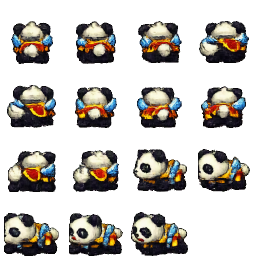
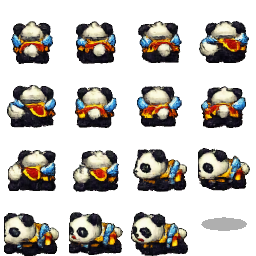
skin thu cuoi: them bong do va nhip nhun nhu linh thu that
Doc du lieu heo bang (d_effect/236) thay hai chi tiet ma skin dang thieu:

  frame 0: [dx=-8 dy=-5 img=0] [dx=-17 dy=-35 img=1]
  frame 1: [dx=-8 dy=-5 img=0] [dx=-17 dy=-34 img=2]
  frame 2: [dx=-8 dy=-5 img=0] [dx=-17 dy=-35 img=3]

1. Moi frame co HAI phan: mot bong do dat co dinh ngay toa do nhan vat, giu
   nguyen suot 21 frame, cong voi than con thu. Rong Bang cung vay (img0 27x14).
   Thieu bong thi con thu nhin nhu dan len chu khong dung tren dat.

2. Than nhun 1 diem so le tung frame (-35, -34, -35...). Do la toan bo "cach di
   chuyen" cua no.

Nay skin cung the: o thu 16 cua luoi la bong do (bau duc, rong 80% be ngang con
thu), moi frame gom bong + than. Nhip nhun thi do sau khi da thu nho — chenh
lech o anh goc phai nhan voi ti le ~0.33 moi ra so diem that nen 2 diem goc chi
con 0.66, chua thanh nhip; huong nao do ra 0 thi tu bu 1 diem so le.

Du lieu frame van giong nhau tung byte giua ca 5 skin:
  md5sum map/d_effect/159 197 198 199 212 -> 891102c844832322238fc11dc33f6cb1

Nhung lan nay du lieu CO doi (269 -> 421 byte, them phan bong) nen phai tat han
app mot lan nua. Sau lan nay bo cuc dong bang, doi hinh khong con doi du lieu.

Khong sua file nao trong src/ nen jar giu nguyen.

diff --git a/tools/TaoEffThuCuoi.java b/tools/TaoEffThuCuoi.java
@@ -71,9 +71,14 @@ public class TaoEffThuCuoi {
     private static final int SO_GOC = 5;
     /** Toa do anh con luu bang byte khong dau nen atlas toi da 256x256. */
     private static final int ATLAS = 256;
-    /** Canh mot o trong luoi co dinh, 4 cot x 4 dong = 256x256, du cho 15 anh. */
+    /**
+     * Canh mot o trong luoi co dinh, 4 cot x 4 dong = 256x256: 15 o cho than con thu,
+     * o thu 16 cho bong do.
+     */
     private static final int O = 64;
     private static final int SO_COT = ATLAS / O;
+    /** Chi so o chua bong do (o cuoi cung cua luoi). */
+    private static final int O_BONG = 15;
     /**
      * So diem con thu tho xuong duoi toa do nhan vat: xuong, len, ngang.
      *
@@ -144,6 +149,8 @@ public class TaoEffThuCuoi {
         final int[][][] khung = new int[3][SO_GOC][];
         final boolean[][][][] mat = new boolean[3][SO_GOC][][];
         final int[] mocY = new int[3];
+        /** true = hang khong co nhip nhun san, phai tu them. */
+        final boolean[] nhun = new boolean[3];
         int caoNhat = 0;
         for (int nhom = 0; nhom < 3; nhom++) {
             if (hang[nhom] >= hangs.size()) {
@@ -240,6 +247,22 @@ public class TaoEffThuCuoi {
         //
         // Gia phai tra: con thu bi gioi han trong 64x64, va client blit tron o nen phan
         // trong suot cung duoc ve — khong dang ke.
+        // Xem tung huong co nhip nhun san khong. PHAI do sau khi biet ti le: chenh lech
+        // do o anh goc con phai nhan voi ti le ~0.33 moi ra so diem that, nen 2 diem goc
+        // chi con 0.66 diem — chua thanh nhip.
+        for (int nhom = 0; nhom < 3; nhom++) {
+            int thap = Integer.MAX_VALUE, cao = -1;
+            for (int f = 0; f < SO_GOC; f++) {
+                if (khung[nhom][f] == null) continue;
+                final int v = (int) Math.round((mocY[nhom] - khung[nhom][f][3]) * tiLe);
+                thap = Math.min(thap, v);
+                cao = Math.max(cao, v);
+            }
+            nhun[nhom] = cao - thap < 1;
+            System.out.println("  huong " + nhom + (nhun[nhom] ? ": tu them nhip nhun"
+                    : ": co nhip nhun san " + (cao - thap) + " diem"));
+        }
+
         final BufferedImage atlas = new BufferedImage(ATLAS, ATLAS, BufferedImage.TYPE_INT_ARGB);
         final Graphics2D g = atlas.createGraphics();
         for (int i = 0; i < anh.length; i++) {
@@ -248,17 +271,32 @@ public class TaoEffThuCuoi {
             final int ox = (i % SO_COT) * O, oy = (i / SO_COT) * O;
             // Can giua o theo be ngang. Theo chieu doc: vach dat cua hang nam dung o day
             // o, con tung frame giu nguyen do nhun len xuong tu nhien cua no.
-            final int caoTrenVach = (int) Math.round((mocY[nhom] - khung[nhom][f][3]) * tiLe);
+            int caoTrenVach = (int) Math.round((mocY[nhom] - khung[nhom][f][3]) * tiLe);
+            // Bao dam co nhip nhun: linh thu that nhun than 1 diem so le tung frame (heo
+            // bang dy = -35, -34, -35, -34, -35). Bang sprite AI nhieu khi ve cac frame
+            // dung y mot do cao, luc do con thu truot ngang nhu dan tren giay nen phai
+            // tu them nhip. Chi them khi ban than hang khong co nhip san.
+            if (nhun[nhom] && f % 2 == 1) {
+                caoTrenVach++;
+            }
             g.drawImage(anh[i], ox + (O - anh[i].getWidth()) / 2,
                     oy + O - caoTrenVach - anh[i].getHeight(), null);
         }
+        // Bong do o o cuoi: linh thu that con nao cung co, la mot phan RIENG dat co dinh
+        // ngay toa do nhan vat va giu nguyen suot 21 frame (Rong Bang img0 27x14, heo bang
+        // img0 dy=-5). Thieu bong thi con thu nhin nhu dan len chu khong dung tren dat.
+        final int rongBong = Math.max(8, (int) Math.round(rongThuc * 0.8));
+        final int caoBong = Math.max(4, (int) Math.round(rongBong * 0.30));
+        final int bx = (O_BONG % SO_COT) * O, by = (O_BONG / SO_COT) * O;
+        g.setPaint(new java.awt.Color(0, 0, 0, 80));
+        g.fillOval(bx + (O - rongBong) / 2, by + (O - caoBong) / 2, rongBong, caoBong);
         g.dispose();
         ImageIO.write(atlas, "png", new File("map/d_effect/" + id + ".png"));
 
         final ByteArrayOutputStream bos = new ByteArrayOutputStream();
         final DataOutputStream dos = new DataOutputStream(bos);
-        dos.writeByte(anh.length);
-        for (int i = 0; i < anh.length; i++) {
+        dos.writeByte(anh.length + 1);              // 15 o than + 1 o bong
+        for (int i = 0; i <= anh.length; i++) {
             dos.writeByte(i);
             dos.writeByte((i % SO_COT) * O);
             dos.writeByte((i / SO_COT) * O);
@@ -274,7 +312,17 @@ public class TaoEffThuCuoi {
                     dos.writeByte(0);
                     continue;
                 }
-                dos.writeByte(1);
+                dos.writeByte(2);
+                // Phan 1: bong do. Dat truoc than de nam DUOI than, va dung mot toa do
+                // cho ca 21 frame nen bong khong xe dich theo nhip nhun cua than.
+                // O bong duoc ve hinh bau duc dung giua o nen -O/2 dua tam bong ve
+                // dung toa do nhan vat.
+                dos.writeShort(-O / 2);
+                dos.writeShort(-O / 2);
+                dos.writeByte(O_BONG);
+                dos.writeByte(0);
+                dos.writeByte(0);
+                // Phan 2: than con thu.
                 // dx = -O/2: can giua o. Dung dung nua o thi client lat anh cho huong
                 // phai bang num = -(dx + w) cung ra -O/2, hai ben trung khop tuyet doi.
                 dos.writeShort(-O / 2);
